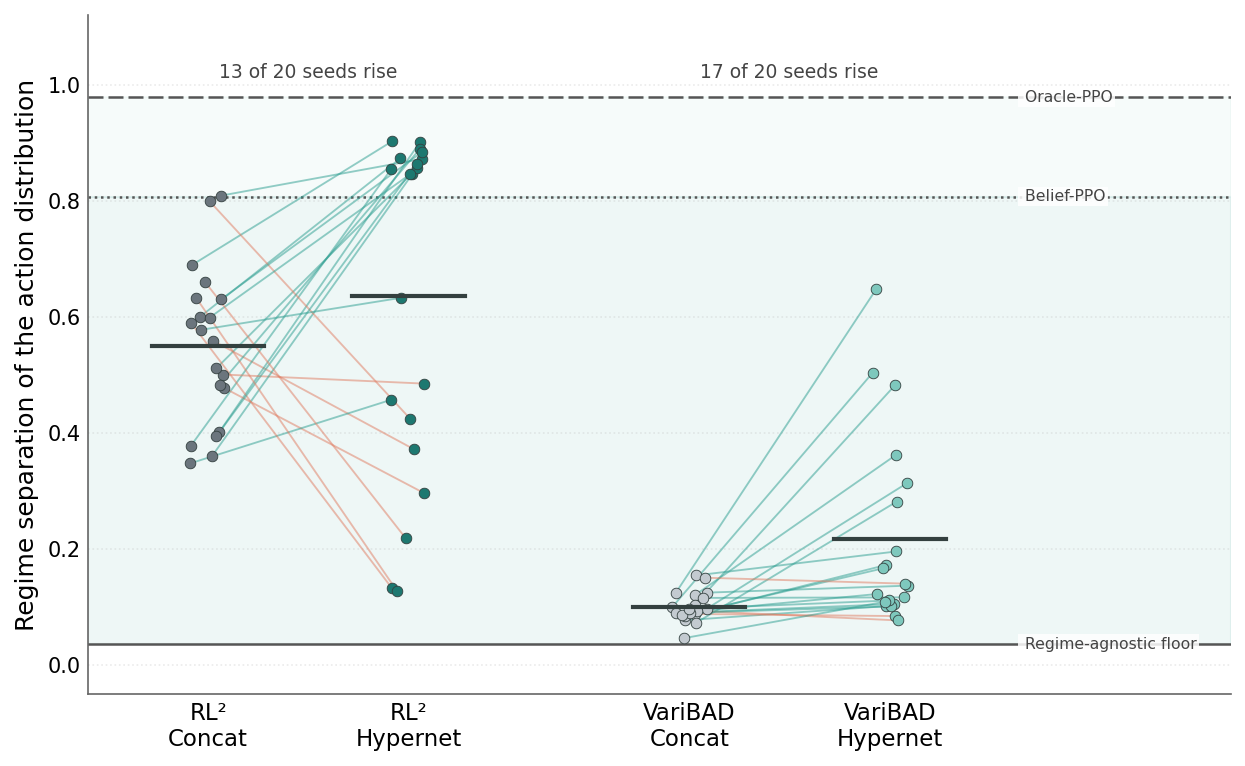
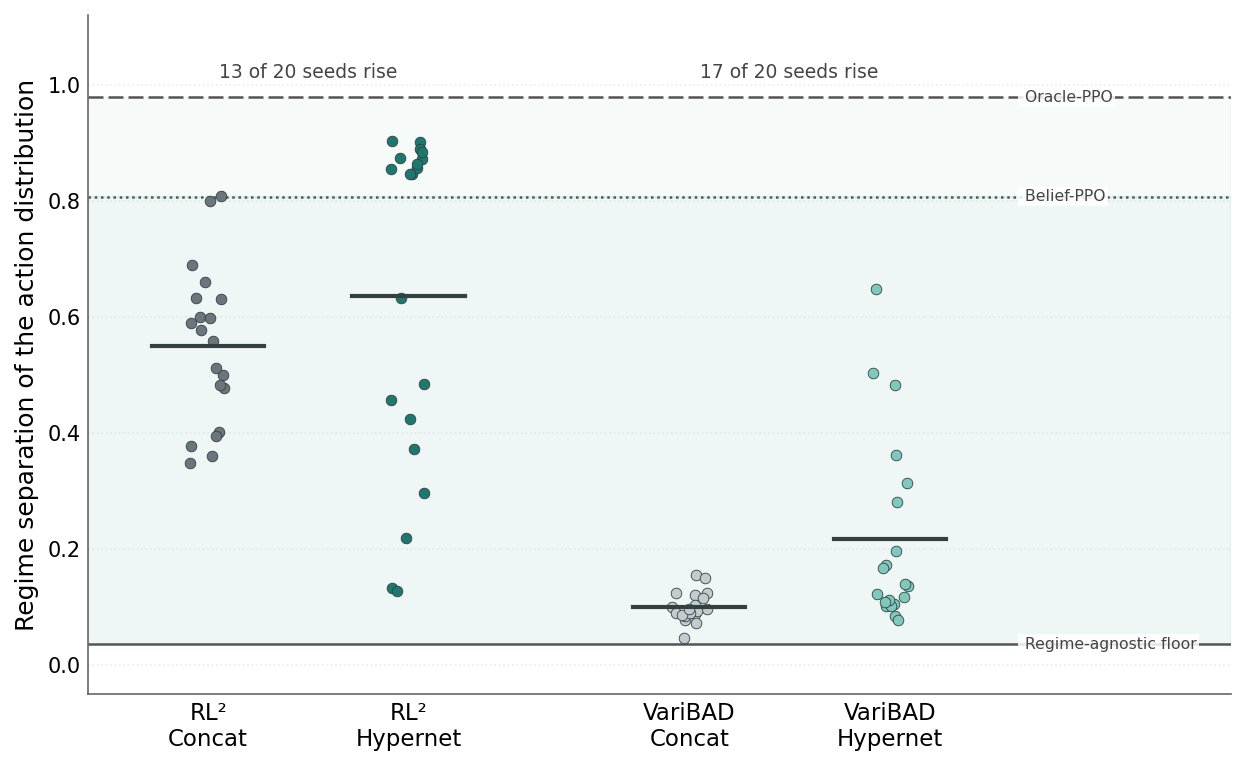
j

diff --git a/plotting/m5r_plots.py b/plotting/m5r_plots.py
@@ -1237,7 +1237,7 @@ def plot_m5r_diagnostic_separation(
 ) -> None:
     """Per-seed separation score of each variant, paired within seed.
 
-    One point per run, a segment joining the two architectures of a seed, and
+    One point per run, the mean of each variant as a bar, and
     the reference levels behind them. The table reports the paired difference;
     this shows the level each variant reaches and how far it sits from the
     Belief-PPO reference, which a difference alone cannot say.
@@ -1260,15 +1260,11 @@ def plot_m5r_diagnostic_separation(
             continue
         x_c, x_h = positions[f"{method}_concat"], positions[f"{method}_hypernet"]
         jitter = rng.uniform(-0.09, 0.09, size=c.shape[0])
-        # A segment is one seed's paired difference, which is what the Wilcoxon
-        # test consumes. Colouring it by direction makes the majority countable:
-        # in uniform grey the segments cross into a wash and the pairing, the
-        # reason overlapping clouds can still separate, is lost.
+        # No segment joining a seed's two points. The count they carried is a
+        # column of the diagnostics table, and the shape of each cloud is
+        # legible from the points alone; twenty crossing lines per method were
+        # obscuring it.
         rising = h > c
-        for i in range(c.shape[0]):
-            ax.plot([x_c + jitter[i], x_h + jitter[i]], [c[i], h[i]],
-                    color="#2a9d8f" if rising[i] else PALETTE["accent2"],
-                    linewidth=0.9, alpha=0.5, zorder=3)
         ax.text((x_c + x_h) / 2, 1.005,
                 f"{int(rising.sum())} of {c.shape[0]} seeds rise",
                 ha="center", va="bottom", fontsize=9, color="#444444")
